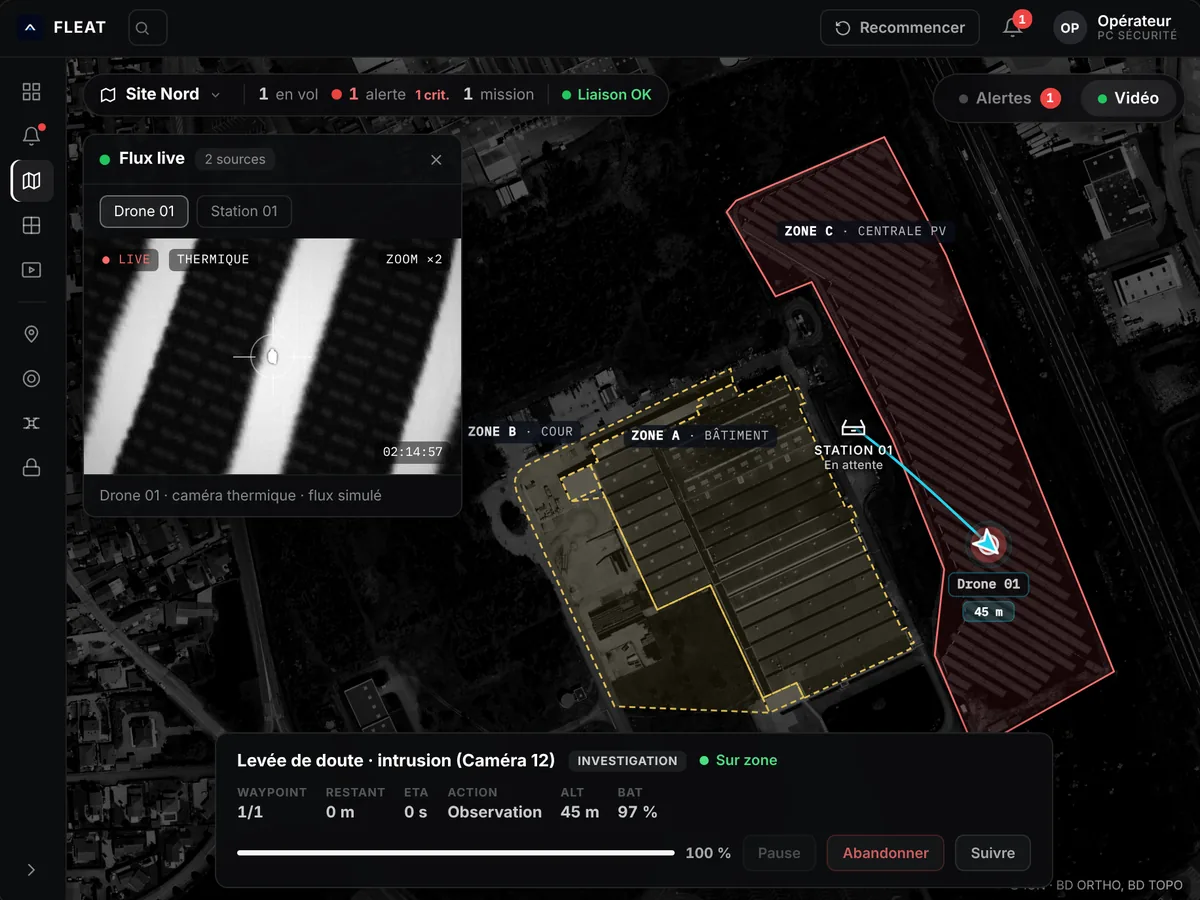
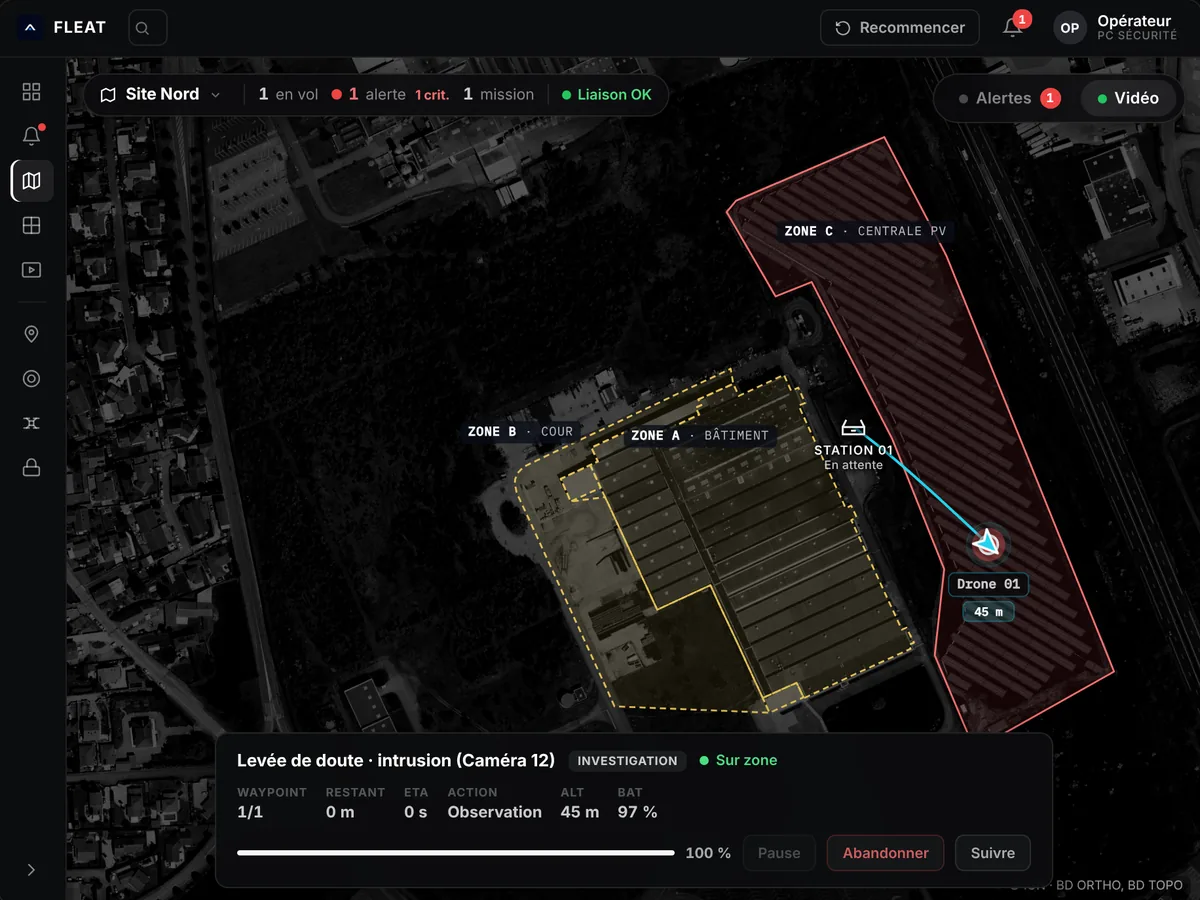
Solution · La plateforme : capture sans flux vidéo, démo en carte tactique
- Capture de la carte « La plateforme » sans l'encart du flux vidéo,
  le reste identique (même carte, drone, suivi de mission) ; texte
  alternatif mis à jour.
- Démo interactive FLEAT Control Center : fond de carte Tactique par
  défaut, Satellite reste disponible.

Claude-Session: https://claude.ai/code/session_01XSyXkko56ZbE8rwbB2pniT

Changed region(s): [[0.0617, 0.1244, 0.4008, 0.5911]]

diff --git a/solution.html b/solution.html
@@ -158,7 +158,7 @@ a.kit-shot-link{color:inherit}a.kit-shot-link:hover{text-decoration:underline;te
 <div><h3>Le drone</h3><ul><li>Caméra visible et caméra thermique.</li><li>Vols de jour comme de nuit.</li><li>Jusqu'à 40&nbsp;ha couverts par vol, selon le site.</li></ul></div>
 </div>
 <div class="kit-item reveal" data-d="2">
-<a class="kit-shot" href="#demo-interface" aria-label="Voir l'interface FLEAT Control Center en démonstration"><img src="assets/plateforme-tactique.webp" srcset="assets/plateforme-tactique-640.webp 640w, assets/plateforme-tactique.webp 1200w" sizes="(max-width: 860px) 200px, 33vw" width="1200" height="900" alt="Interface FLEAT Control Center : carte du site, flux thermique du drone et suivi de mission" loading="lazy" decoding="async"></a>
+<a class="kit-shot" href="#demo-interface" aria-label="Voir l'interface FLEAT Control Center en démonstration"><img src="assets/plateforme-tactique.webp" srcset="assets/plateforme-tactique-640.webp 640w, assets/plateforme-tactique.webp 1200w" sizes="(max-width: 860px) 200px, 33vw" width="1200" height="900" alt="Interface FLEAT Control Center : carte du site, drone sur la zone en alerte et suivi de mission" loading="lazy" decoding="async"></a>
 <div><h3><a class="kit-shot-link" href="#demo-interface">La plateforme</a></h3><ul><li>Carte du site et suivi du vol en direct.</li><li>Flux vidéo transmis au PC sécurité.</li><li>Historique de chaque mission.</li></ul><a class="btn-link kit-try" href="#demo-interface">Essayer l'interface <svg viewBox="0 0 24 24" fill="none" stroke="currentColor" stroke-width="2" stroke-linecap="round" stroke-linejoin="round" aria-hidden="true"><path d="M12 5v14M6 13l6 6 6-6"/></svg></a></div>
 </div>
 </div>
@@ -200,7 +200,7 @@ a.kit-shot-link{color:inherit}a.kit-shot-link:hover{text-decoration:underline;te
 <div class="container">
 <div class="section-head reveal"><span class="eyebrow">03 · Côté opérateur</span><h2 class="h2">Tout le suivi dans une seule interface.</h2><p class="lead">Prenez la place de l'opérateur. Traitez une alerte du début à la fin.</p></div>
 <div class="fcc-wrap reveal" id="demo-interface">
-<div class="fcc" id="fcc" data-state="alert" data-ctx="0" data-video="0" data-layer="sat" role="region" aria-label="Démonstration interactive de FLEAT Control Center">
+<div class="fcc" id="fcc" data-state="alert" data-ctx="0" data-video="0" data-layer="tac" role="region" aria-label="Démonstration interactive de FLEAT Control Center">
 <div class="fcc-top">
 <span class="fcc-brand"><img src="assets/fleat-mark.png" alt="" width="20" height="20">FLEAT</span>
 <button type="button" class="fcc-search" data-act="toast" data-toast="search"><svg viewBox="0 0 24 24" fill="none" stroke="currentColor" stroke-width="2" aria-hidden="true"><circle cx="11" cy="11" r="7"/><path d="M21 21l-4.3-4.3"/></svg>Rechercher un site, drone, mission…<kbd>Ctrl K</kbd></button>
@@ -268,7 +268,7 @@ a.kit-shot-link{color:inherit}a.kit-shot-link:hover{text-decoration:underline;te
 <button type="button" class="fcc-bar-b fcc-hide-m" data-act="pop" data-pop="layers"><i></i>Couches</button>
 <button type="button" class="fcc-bar-b" data-act="video" data-f="barVid"><i></i>Vidéo<em class="ok">●</em></button>
 </div>
-<div class="fcc-layers-t" role="group" aria-label="Fond de carte"><button type="button" data-act="layer" data-layer="tac">Tactique</button><button type="button" data-act="layer" data-layer="sat" aria-pressed="true">Satellite</button></div>
+<div class="fcc-layers-t" role="group" aria-label="Fond de carte"><button type="button" data-act="layer" data-layer="tac" aria-pressed="true">Tactique</button><button type="button" data-act="layer" data-layer="sat" aria-pressed="false">Satellite</button></div>
 <span class="fcc-attr">© IGN · BD ORTHO, BD TOPO</span>
 <div class="fcc-crit" role="alert">
 <span class="fcc-crit-pulse"></span>
